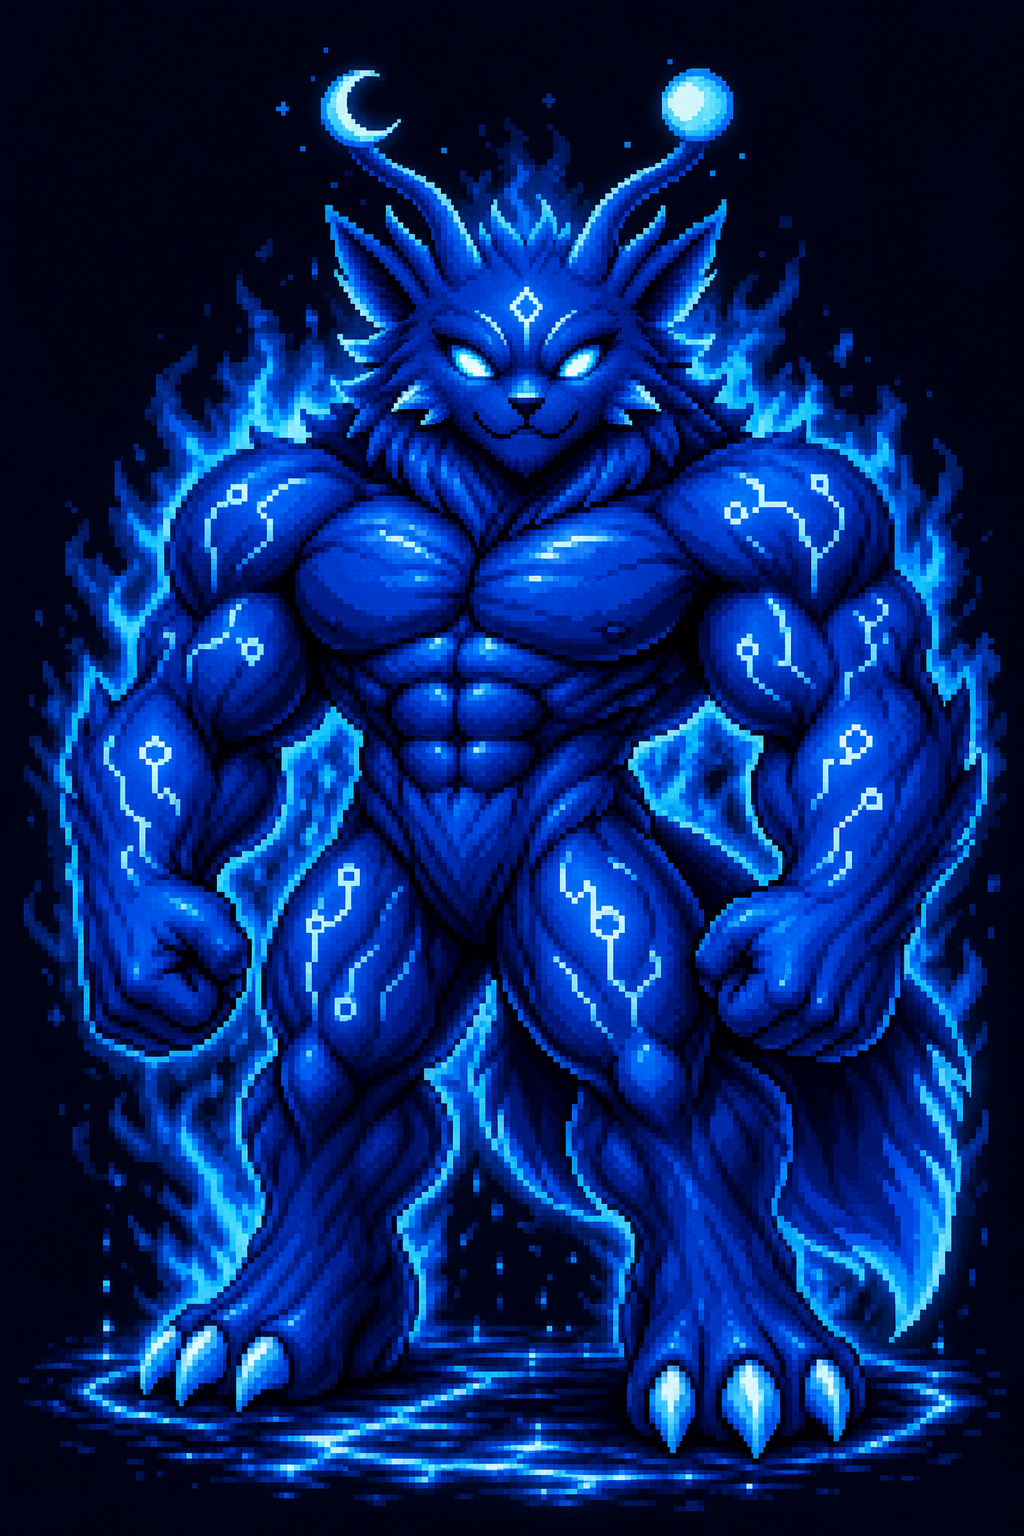
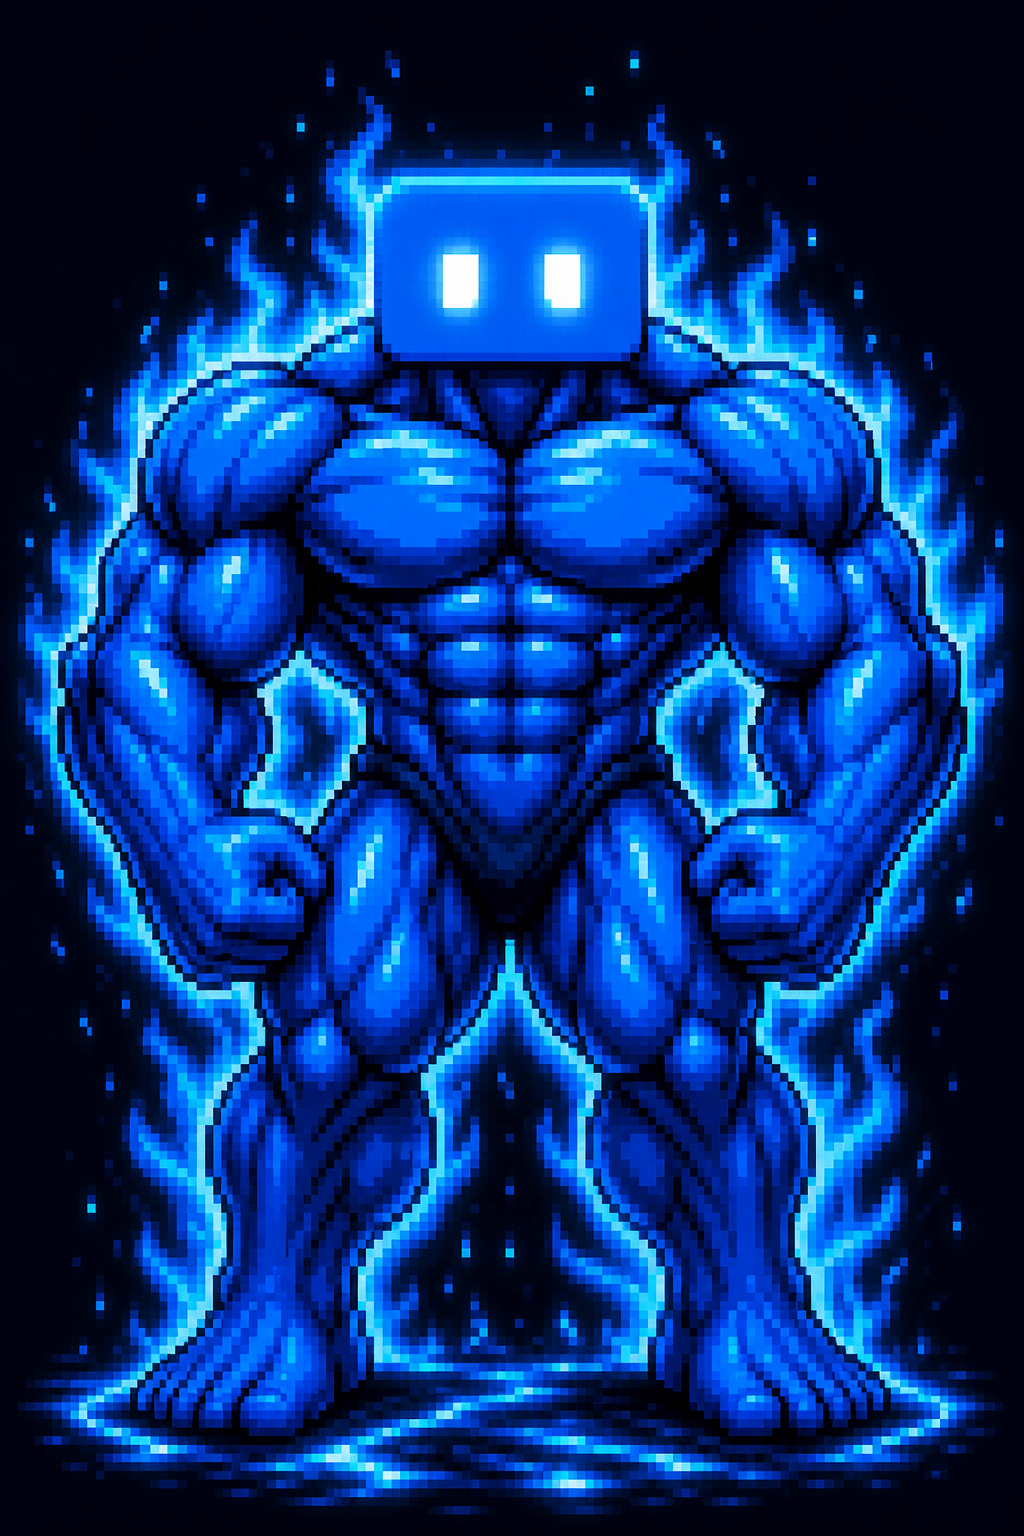
Make the Kimi mascot match the reference
The README hero now uses a simple Kimi block head on a blue flame arcade-boss body, matching the requested reference composition more directly. The project intro also adds a sharper one-line description and visible tags for the repository audience.

Constraint: Keep the reference pose and energy, but make the character blue and Kimi-shaped.

Rejected: Keep the previous animal-head mascot | it invented too much beyond the requested Kimi head plus muscular body.

Confidence: high

Scope-risk: narrow

Tested: file assets/omk-kimi-mascot.png; git diff --cached --check; visual inspection of generated PNG

Not-tested: Cargo tests, because this changes only README text and image asset

diff --git a/README.md b/README.md
@@ -1,12 +1,14 @@
 <div align="center">
 
-<img src="assets/omk-kimi-mascot.png" alt="oh-my-kimi blue Kimi coding mascot" width="360">
+<img src="assets/omk-kimi-mascot.png" alt="oh-my-kimi blue flame Kimi giant mascot with glowing square eyes" width="360">
 
 # oh-my-kimi (omk)
 
 **Kimi-only orchestration runtime for reproducible AI coding teams**
 
-Keep [Kimi CLI](https://github.com/MoonshotAI/kimi-cli). Add visible teams, crash recovery, durable state, and proof.
+Turn [Kimi CLI](https://github.com/MoonshotAI/kimi-cli) into visible tmux teams with durable state, recovery, and proof.
+
+**Tags:** `kimi-cli` `rust` `multi-agent` `tmux` `agent-orchestration` `proof-driven` `developer-tools`
 
 *Inspired by [oh-my-claudecode](https://github.com/yeachan-heo/oh-my-claudecode), but not a line-for-line port. OMK is designed as a Kimi-native runtime that owns scheduling, state, verification evidence, and observability while Kimi remains the execution engine.*
 